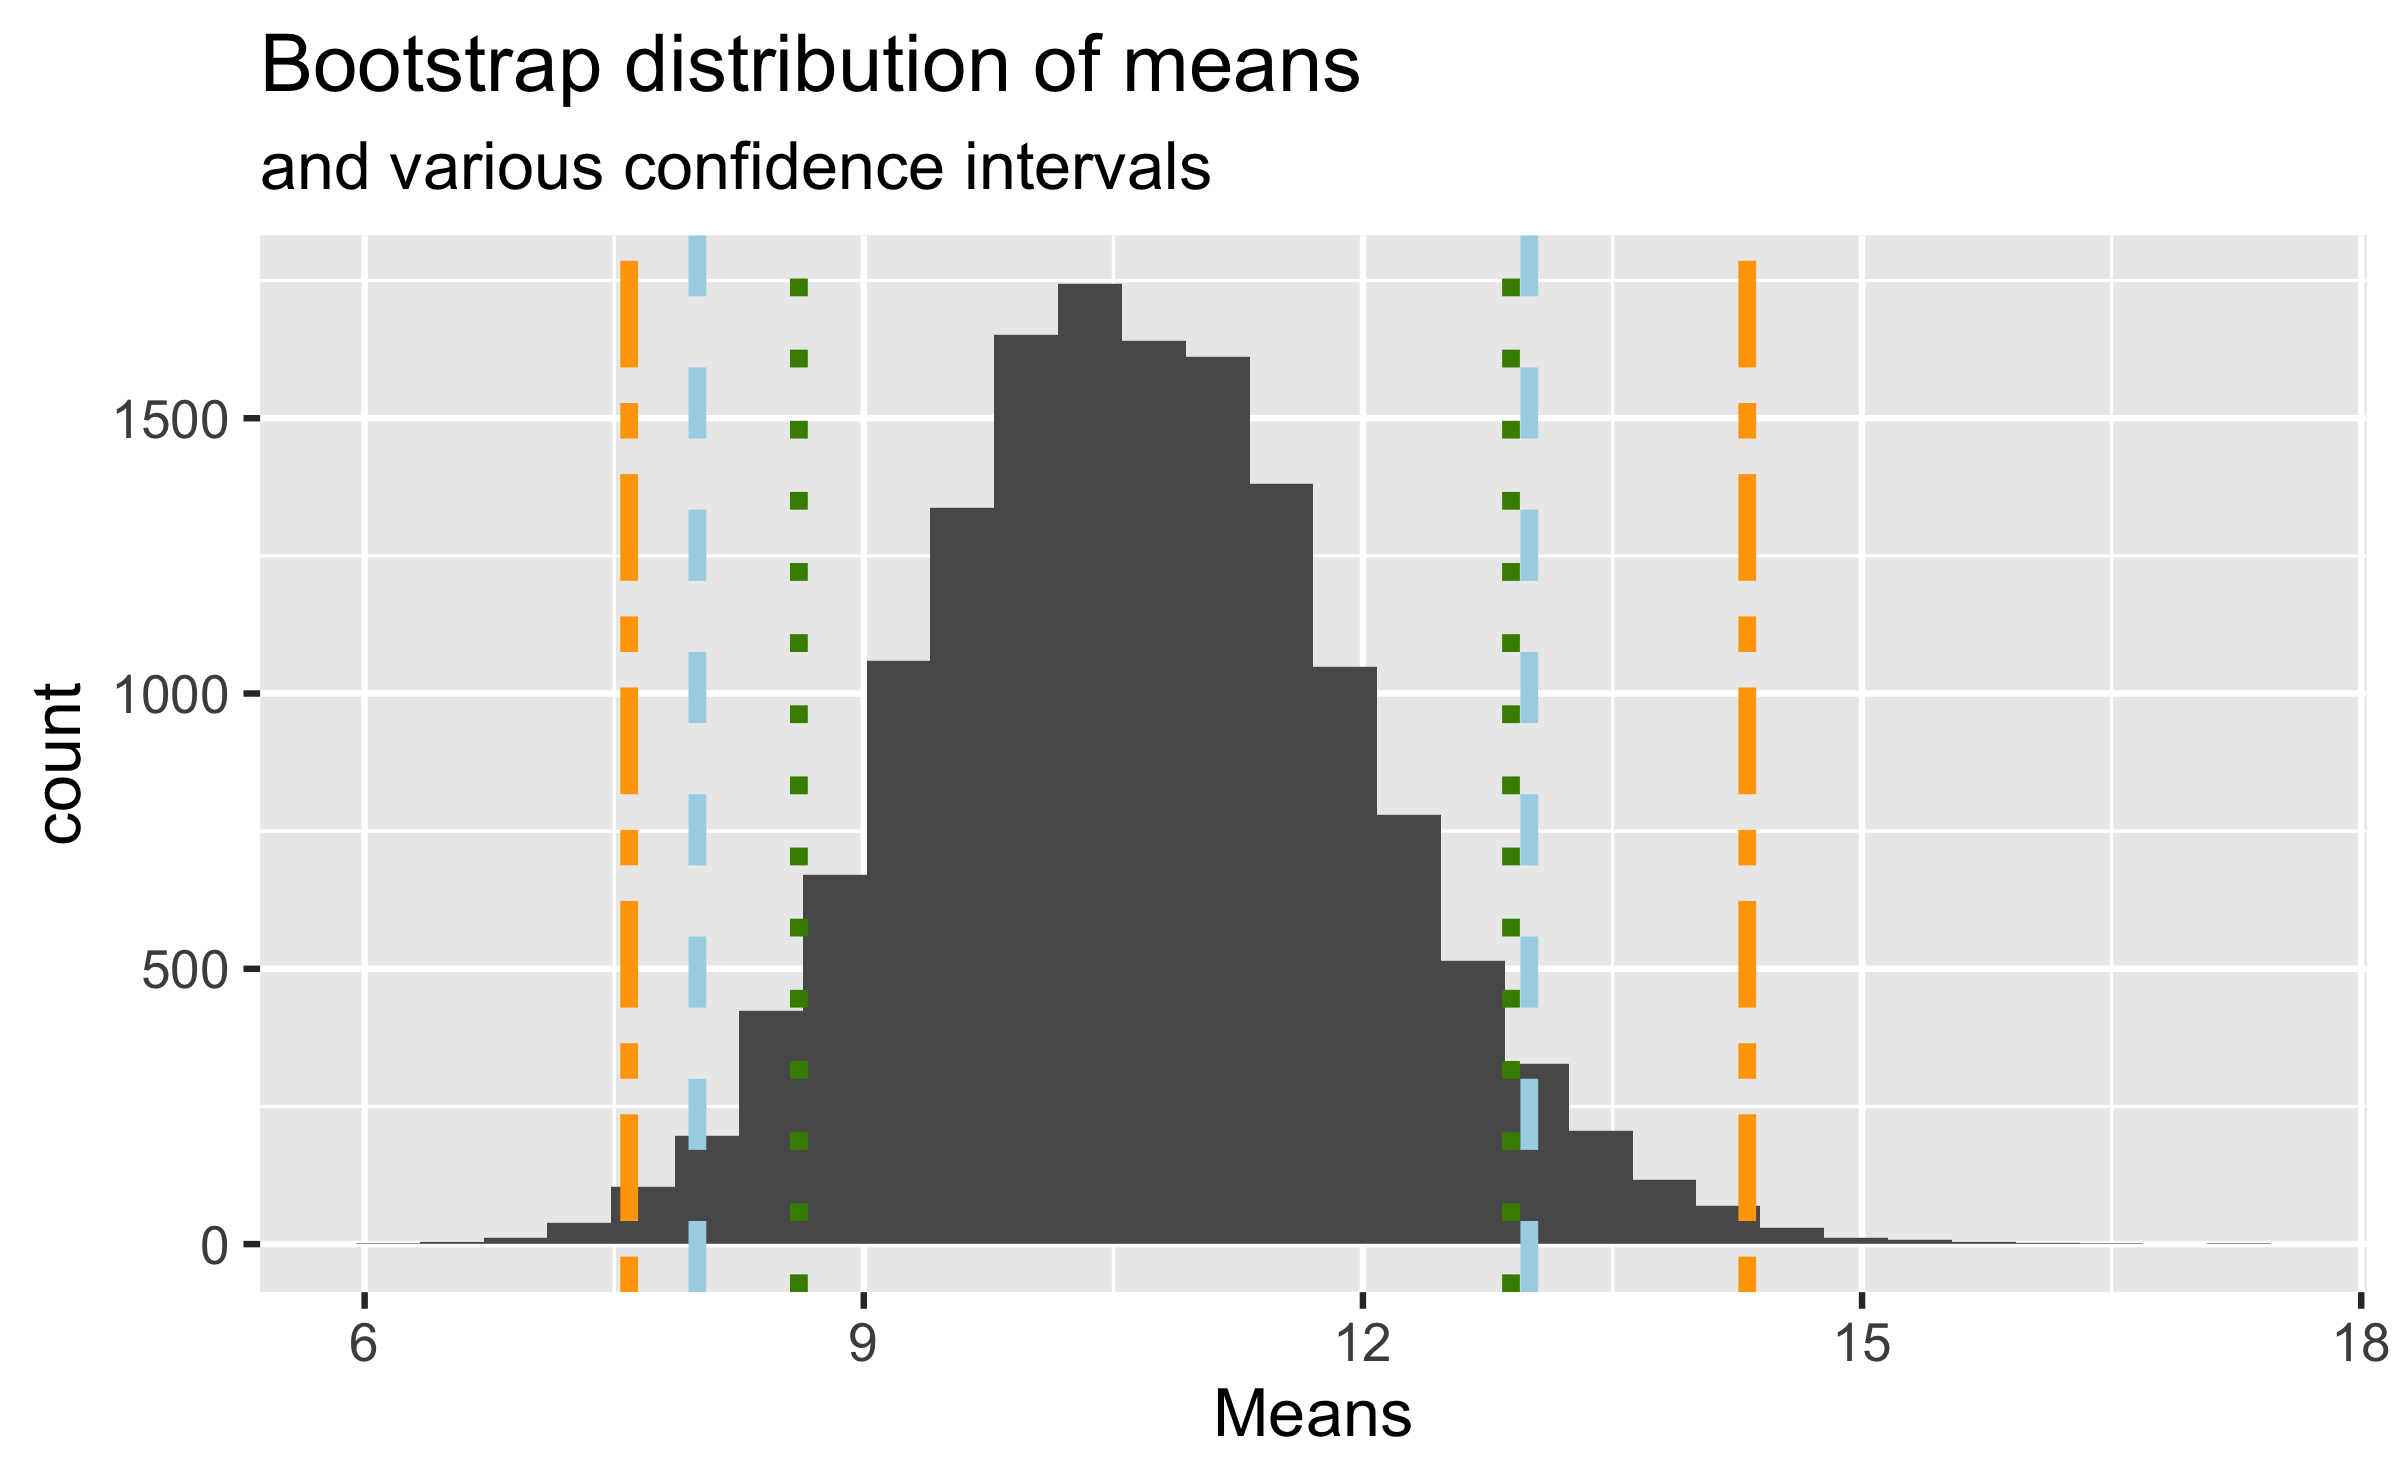
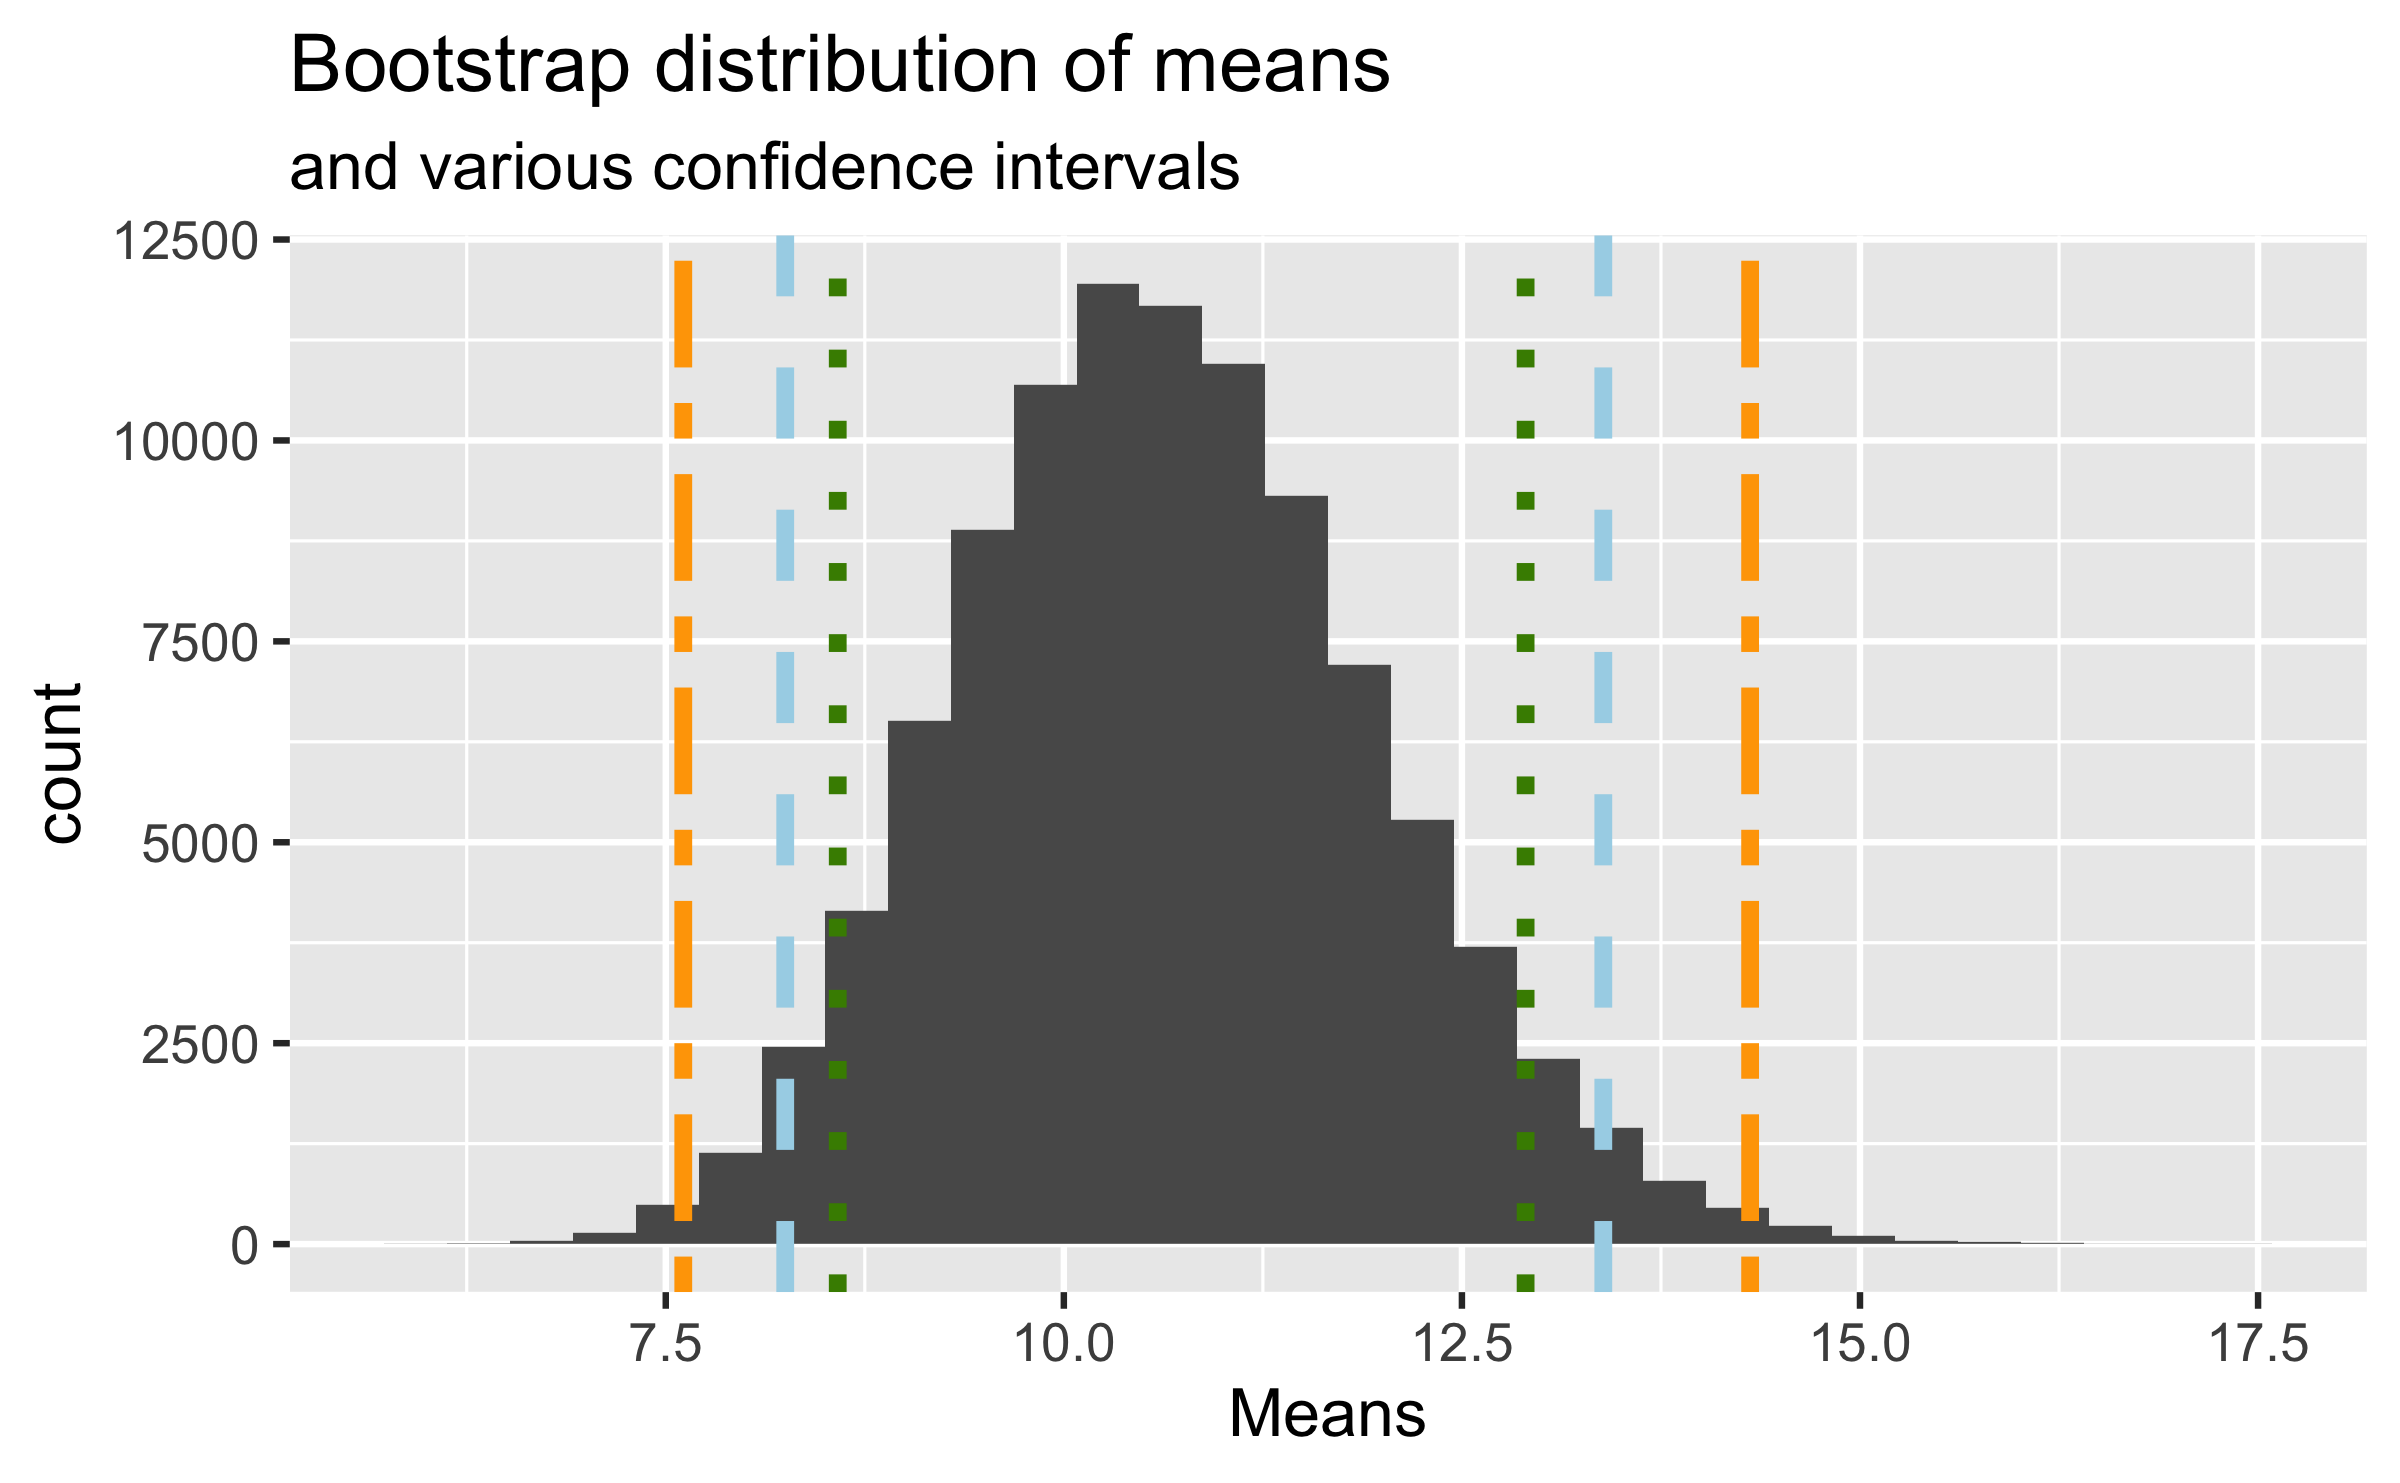
clt edits

diff --git a/docs/slides/week-06/w6-l02-clt.html b/docs/slides/week-06/w6-l02-clt.html
@@ -321,7 +321,7 @@ and is written
 ### Moving towards confidence intervals
 
 
-From the Central Limit Theorem, `$$Z = \frac{\bar{X} - \mu}{\sigma/\sqrt{n}} \sim N(0, 1)$$`  or for the Bernoulli case, `$$Z = \frac{\bar{X} - \pi}{\frac{\sqrt{\pi(1-\pi}}{\sqrt{n}}} \sim N(0, 1)$$` 
+From the Central Limit Theorem, `$$Z = \frac{\bar{X} - \mu}{\sigma/\sqrt{n}} \sim N(0, 1)$$`  or for the Bernoulli case, `$$Z = \frac{\bar{X} - \pi}{\frac{\sqrt{\pi(1-\pi)}}{\sqrt{n}}} \sim N(0, 1)$$` 
 
 Based on properties of the standard normal distribution, `$$P(-1.96 &lt; Z &lt; 1.96)=0.95.$$`
 
@@ -413,7 +413,7 @@ res.glue &lt;- flint %&gt;%
 ci.glue=glue("({round(res.glue$lower.ci.lead,2)}, {round(res.glue$upper.ci.lead,2)})") 
 ```
 
-In our sample, 17% of homes had lead levels over 15 ppb, with a 95% confidence interval for the proportion of homes with high lead of ((0.12, 0.21)).
+In our sample, 17% of homes had lead levels over 15 ppb, with a 95% confidence interval for the proportion of homes with high lead of (0.12, 0.21).
 
 ---
 
@@ -449,7 +449,7 @@ One example of this would be in a non-inferiority clinical trial for a generic v
 
 ### Sigma Unknown
 
-The interval `$$\left(\bar{X}-z_{\frac{\alpha}{2}}\frac{\sigma}{\sqrt{n}}, \bar{X}+z_{\frac{\alpha}{2}}\frac{\sigma}{\sqrt{n}} \right)$$` requires an estimate of `\(\sigma\)`. In the Bernoulli case, we only estimate one parameter ($\pi$) which then gives us both the mean `\(\mu=\pi\)` and `\(\sigma=\sqrt{\pi(1-\pi)}\)`. In the normal case, we need to use the data to get a separate estimate of `\(\sigma\)`.
+The interval `$$\left(\bar{X}-z_{\frac{\alpha}{2}}\frac{\sigma}{\sqrt{n}}, \bar{X}+z_{\frac{\alpha}{2}}\frac{\sigma}{\sqrt{n}} \right)$$` requires an estimate of `\(\sigma\)`. In the Bernoulli case, we only estimate one parameter `\(\pi\)`, which then gives us both the mean `\(\mu=\pi\)` and `\(\sigma=\sqrt{\pi(1-\pi)}\)`. In the normal case, we need to use the data to get a separate estimate of `\(\sigma\)`.
 
 If you have taken statistics before, you may remember using `\(s=\frac{1}{n-1}\sum_{i=1}^n(x_i-\overline{x})^2\)`, the sample standard deviation, to estimate `\(\sigma\)`. This is generally a good estimate!  
 
@@ -534,7 +534,7 @@ information available in the data to estimate `\(\sigma\)` and thus give us
 information about how reliable our estimate `\(s\)` is. The random
 variable `$$t=\frac{\bar{X}-\mu}{\frac{s}{\sqrt{n}}}$$`
 has a Student's t distribution with n-1 degrees of freedom,
-represented using the notation `\(t_{n-1}\)`. The df are `\(n-1\)` instead of `\(n\)`
+represented using the notation `\(t_{n-1}\)`. The df are `\(n-1\)` instead of the sample size `\(n\)`
 because we lose 1 df by estimating the sample mean with `\(\bar{x}\)`. For
 each possible df, there is a different t distribution, with the t
 distribution looking more like the normal as `\(n\)` gets large and `\(s\)` gets
@@ -570,7 +570,7 @@ res.glue.2 &lt;- flint %&gt;%
 ci.glue.2=glue("({round(res.glue.2$lower.ci.lead,2)}, {round(res.glue.2$upper.ci.lead,2)})") 
 ```
 
-In our sample, the estimated mean lead level in initial water samples was 10.65 ppb, with a 95% confidence interval for the mean of  ((8.07, 13.22)).
+In our sample, the estimated mean lead level in initial water samples was 10.65 ppb, with a 95% confidence interval for the mean of  (8.07, 13.22).
 
 ---
 
@@ -624,6 +624,8 @@ Calculating a bootstrapped confidence interval is quick and easy using R.  The b
 4. Calculate the bounds of the XX% confidence interval as the middle XX% of the bootstrap distribution 
 
 ---
+
+
 
 # Bootstrapping with tidymodels
 
@@ -680,8 +682,8 @@ flint %&gt;%
 boot_flintmean &lt;- flint %&gt;%
   # specify the variable of interest
   specify(response = Pb_initial) %&gt;%
-  # generate 15000 bootstrap samples
-  generate(reps = 15000, type = "bootstrap") %&gt;%
+  # generate 100000 bootstrap samples
+  generate(reps = 100000, type = "bootstrap") %&gt;%
   # calculate the mean of each bootstrap sample
   calculate(stat = "mean")
 ```
@@ -701,16 +703,16 @@ boot_flintmean
 
 ```
 #&gt; Response: Pb_initial (numeric)
-#&gt; # A tibble: 15,000 × 2
+#&gt; # A tibble: 100,000 × 2
 #&gt;   replicate  stat
 #&gt;       &lt;int&gt; &lt;dbl&gt;
-#&gt; 1         1  9.97
-#&gt; 2         2  9.54
-#&gt; 3         3  9.97
-#&gt; 4         4 10.3 
-#&gt; 5         5  9.70
-#&gt; 6         6 11.2 
-#&gt; # … with 14,994 more rows
+#&gt; 1         1  9.46
+#&gt; 2         2 10.4 
+#&gt; 3         3 10.5 
+#&gt; 4         4  9.31
+#&gt; 5         5 13.4 
+#&gt; 6         6 10.6 
+#&gt; # … with 99,994 more rows
 ```
 
 ---
@@ -744,7 +746,7 @@ boot_flintmean %&gt;%
 #&gt; # A tibble: 1 × 2
 #&gt;   lower upper
 #&gt;   &lt;dbl&gt; &lt;dbl&gt;
-#&gt; 1  8.28  13.4
+#&gt; 1  8.25  13.4
 ```
 
 ---
@@ -760,15 +762,15 @@ boot_flintmean %&gt;%
 ## Interpret the confidence interval
 
 .question[
-The 95% confidence interval for the mean lead levels of initial water samples from Flint is (8, 13). Which of the following is the correct interpretation of this interval?
+The 95% confidence interval for the mean lead levels of initial water samples from Flint is (8.2502751, 13.3879632). Which of the following is the correct interpretation of this interval?
 
-**(a)** 95% of the time the mean lead level in this sample is between 8 and 13 ppb.
+**(a)** 95% of the time the mean lead level in this sample is between 8.2502751 and 13.3879632 ppb.
 
-**(b)** 95% of all water samples in Flint have lead levels between 8 and 13 ppb.
+**(b)** 95% of all water samples in Flint have lead levels between 8.2502751 and 13.3879632 ppb.
 
-**(c)** We are 95% confident that the mean lead level in Flint is between 8 and 13 ppb.
+**(c)** We are 95% confident that the mean lead level in Flint is between 8.2502751 and 13.3879632 ppb.
 
-**(d)** We are 95% confident that the mean lead level in this sample is between 8 and 13 ppb.
+**(d)** We are 95% confident that the mean lead level in this sample is between 8.2502751 and 13.3879632 ppb.
 ]
 
 ---
@@ -791,7 +793,7 @@ class: middle
 ## Commonly used confidence levels
 
 .question[
-Which line (orange dash/dot, blue dash, green dot) represents which confidence level?
+Which line (orange dash/dot, blue dash, green dot) represents which confidence level? Options: 90%, 95%, 99%.
 ]
 
 &lt;img src="w6-l02-clt_files/figure-html/unnamed-chunk-20-1.png" width="60%" style="display: block; margin: auto;" /&gt;

diff --git a/static/slides/week-06/w6-l02-clt.html b/static/slides/week-06/w6-l02-clt.html
@@ -321,7 +321,7 @@ and is written
 ### Moving towards confidence intervals
 
 
-From the Central Limit Theorem, `$$Z = \frac{\bar{X} - \mu}{\sigma/\sqrt{n}} \sim N(0, 1)$$`  or for the Bernoulli case, `$$Z = \frac{\bar{X} - \pi}{\frac{\sqrt{\pi(1-\pi}}{\sqrt{n}}} \sim N(0, 1)$$` 
+From the Central Limit Theorem, `$$Z = \frac{\bar{X} - \mu}{\sigma/\sqrt{n}} \sim N(0, 1)$$`  or for the Bernoulli case, `$$Z = \frac{\bar{X} - \pi}{\frac{\sqrt{\pi(1-\pi)}}{\sqrt{n}}} \sim N(0, 1)$$` 
 
 Based on properties of the standard normal distribution, `$$P(-1.96 &lt; Z &lt; 1.96)=0.95.$$`
 
@@ -413,7 +413,7 @@ res.glue &lt;- flint %&gt;%
 ci.glue=glue("({round(res.glue$lower.ci.lead,2)}, {round(res.glue$upper.ci.lead,2)})") 
 ```
 
-In our sample, 17% of homes had lead levels over 15 ppb, with a 95% confidence interval for the proportion of homes with high lead of ((0.12, 0.21)).
+In our sample, 17% of homes had lead levels over 15 ppb, with a 95% confidence interval for the proportion of homes with high lead of (0.12, 0.21).
 
 ---
 
@@ -449,7 +449,7 @@ One example of this would be in a non-inferiority clinical trial for a generic v
 
 ### Sigma Unknown
 
-The interval `$$\left(\bar{X}-z_{\frac{\alpha}{2}}\frac{\sigma}{\sqrt{n}}, \bar{X}+z_{\frac{\alpha}{2}}\frac{\sigma}{\sqrt{n}} \right)$$` requires an estimate of `\(\sigma\)`. In the Bernoulli case, we only estimate one parameter ($\pi$) which then gives us both the mean `\(\mu=\pi\)` and `\(\sigma=\sqrt{\pi(1-\pi)}\)`. In the normal case, we need to use the data to get a separate estimate of `\(\sigma\)`.
+The interval `$$\left(\bar{X}-z_{\frac{\alpha}{2}}\frac{\sigma}{\sqrt{n}}, \bar{X}+z_{\frac{\alpha}{2}}\frac{\sigma}{\sqrt{n}} \right)$$` requires an estimate of `\(\sigma\)`. In the Bernoulli case, we only estimate one parameter `\(\pi\)`, which then gives us both the mean `\(\mu=\pi\)` and `\(\sigma=\sqrt{\pi(1-\pi)}\)`. In the normal case, we need to use the data to get a separate estimate of `\(\sigma\)`.
 
 If you have taken statistics before, you may remember using `\(s=\frac{1}{n-1}\sum_{i=1}^n(x_i-\overline{x})^2\)`, the sample standard deviation, to estimate `\(\sigma\)`. This is generally a good estimate!  
 
@@ -534,7 +534,7 @@ information available in the data to estimate `\(\sigma\)` and thus give us
 information about how reliable our estimate `\(s\)` is. The random
 variable `$$t=\frac{\bar{X}-\mu}{\frac{s}{\sqrt{n}}}$$`
 has a Student's t distribution with n-1 degrees of freedom,
-represented using the notation `\(t_{n-1}\)`. The df are `\(n-1\)` instead of `\(n\)`
+represented using the notation `\(t_{n-1}\)`. The df are `\(n-1\)` instead of the sample size `\(n\)`
 because we lose 1 df by estimating the sample mean with `\(\bar{x}\)`. For
 each possible df, there is a different t distribution, with the t
 distribution looking more like the normal as `\(n\)` gets large and `\(s\)` gets
@@ -570,7 +570,7 @@ res.glue.2 &lt;- flint %&gt;%
 ci.glue.2=glue("({round(res.glue.2$lower.ci.lead,2)}, {round(res.glue.2$upper.ci.lead,2)})") 
 ```
 
-In our sample, the estimated mean lead level in initial water samples was 10.65 ppb, with a 95% confidence interval for the mean of  ((8.07, 13.22)).
+In our sample, the estimated mean lead level in initial water samples was 10.65 ppb, with a 95% confidence interval for the mean of  (8.07, 13.22).
 
 ---
 
@@ -624,6 +624,8 @@ Calculating a bootstrapped confidence interval is quick and easy using R.  The b
 4. Calculate the bounds of the XX% confidence interval as the middle XX% of the bootstrap distribution 
 
 ---
+
+
 
 # Bootstrapping with tidymodels
 
@@ -680,8 +682,8 @@ flint %&gt;%
 boot_flintmean &lt;- flint %&gt;%
   # specify the variable of interest
   specify(response = Pb_initial) %&gt;%
-  # generate 15000 bootstrap samples
-  generate(reps = 15000, type = "bootstrap") %&gt;%
+  # generate 100000 bootstrap samples
+  generate(reps = 100000, type = "bootstrap") %&gt;%
   # calculate the mean of each bootstrap sample
   calculate(stat = "mean")
 ```
@@ -701,16 +703,16 @@ boot_flintmean
 
 ```
 #&gt; Response: Pb_initial (numeric)
-#&gt; # A tibble: 15,000 × 2
+#&gt; # A tibble: 100,000 × 2
 #&gt;   replicate  stat
 #&gt;       &lt;int&gt; &lt;dbl&gt;
-#&gt; 1         1  9.97
-#&gt; 2         2  9.54
-#&gt; 3         3  9.97
-#&gt; 4         4 10.3 
-#&gt; 5         5  9.70
-#&gt; 6         6 11.2 
-#&gt; # … with 14,994 more rows
+#&gt; 1         1  9.46
+#&gt; 2         2 10.4 
+#&gt; 3         3 10.5 
+#&gt; 4         4  9.31
+#&gt; 5         5 13.4 
+#&gt; 6         6 10.6 
+#&gt; # … with 99,994 more rows
 ```
 
 ---
@@ -744,7 +746,7 @@ boot_flintmean %&gt;%
 #&gt; # A tibble: 1 × 2
 #&gt;   lower upper
 #&gt;   &lt;dbl&gt; &lt;dbl&gt;
-#&gt; 1  8.28  13.4
+#&gt; 1  8.25  13.4
 ```
 
 ---
@@ -760,15 +762,15 @@ boot_flintmean %&gt;%
 ## Interpret the confidence interval
 
 .question[
-The 95% confidence interval for the mean lead levels of initial water samples from Flint is (8, 13). Which of the following is the correct interpretation of this interval?
+The 95% confidence interval for the mean lead levels of initial water samples from Flint is (8.2502751, 13.3879632). Which of the following is the correct interpretation of this interval?
 
-**(a)** 95% of the time the mean lead level in this sample is between 8 and 13 ppb.
+**(a)** 95% of the time the mean lead level in this sample is between 8.2502751 and 13.3879632 ppb.
 
-**(b)** 95% of all water samples in Flint have lead levels between 8 and 13 ppb.
+**(b)** 95% of all water samples in Flint have lead levels between 8.2502751 and 13.3879632 ppb.
 
-**(c)** We are 95% confident that the mean lead level in Flint is between 8 and 13 ppb.
+**(c)** We are 95% confident that the mean lead level in Flint is between 8.2502751 and 13.3879632 ppb.
 
-**(d)** We are 95% confident that the mean lead level in this sample is between 8 and 13 ppb.
+**(d)** We are 95% confident that the mean lead level in this sample is between 8.2502751 and 13.3879632 ppb.
 ]
 
 ---
@@ -791,7 +793,7 @@ class: middle
 ## Commonly used confidence levels
 
 .question[
-Which line (orange dash/dot, blue dash, green dot) represents which confidence level?
+Which line (orange dash/dot, blue dash, green dot) represents which confidence level? Options: 90%, 95%, 99%.
 ]
 
 &lt;img src="w6-l02-clt_files/figure-html/unnamed-chunk-20-1.png" width="60%" style="display: block; margin: auto;" /&gt;
